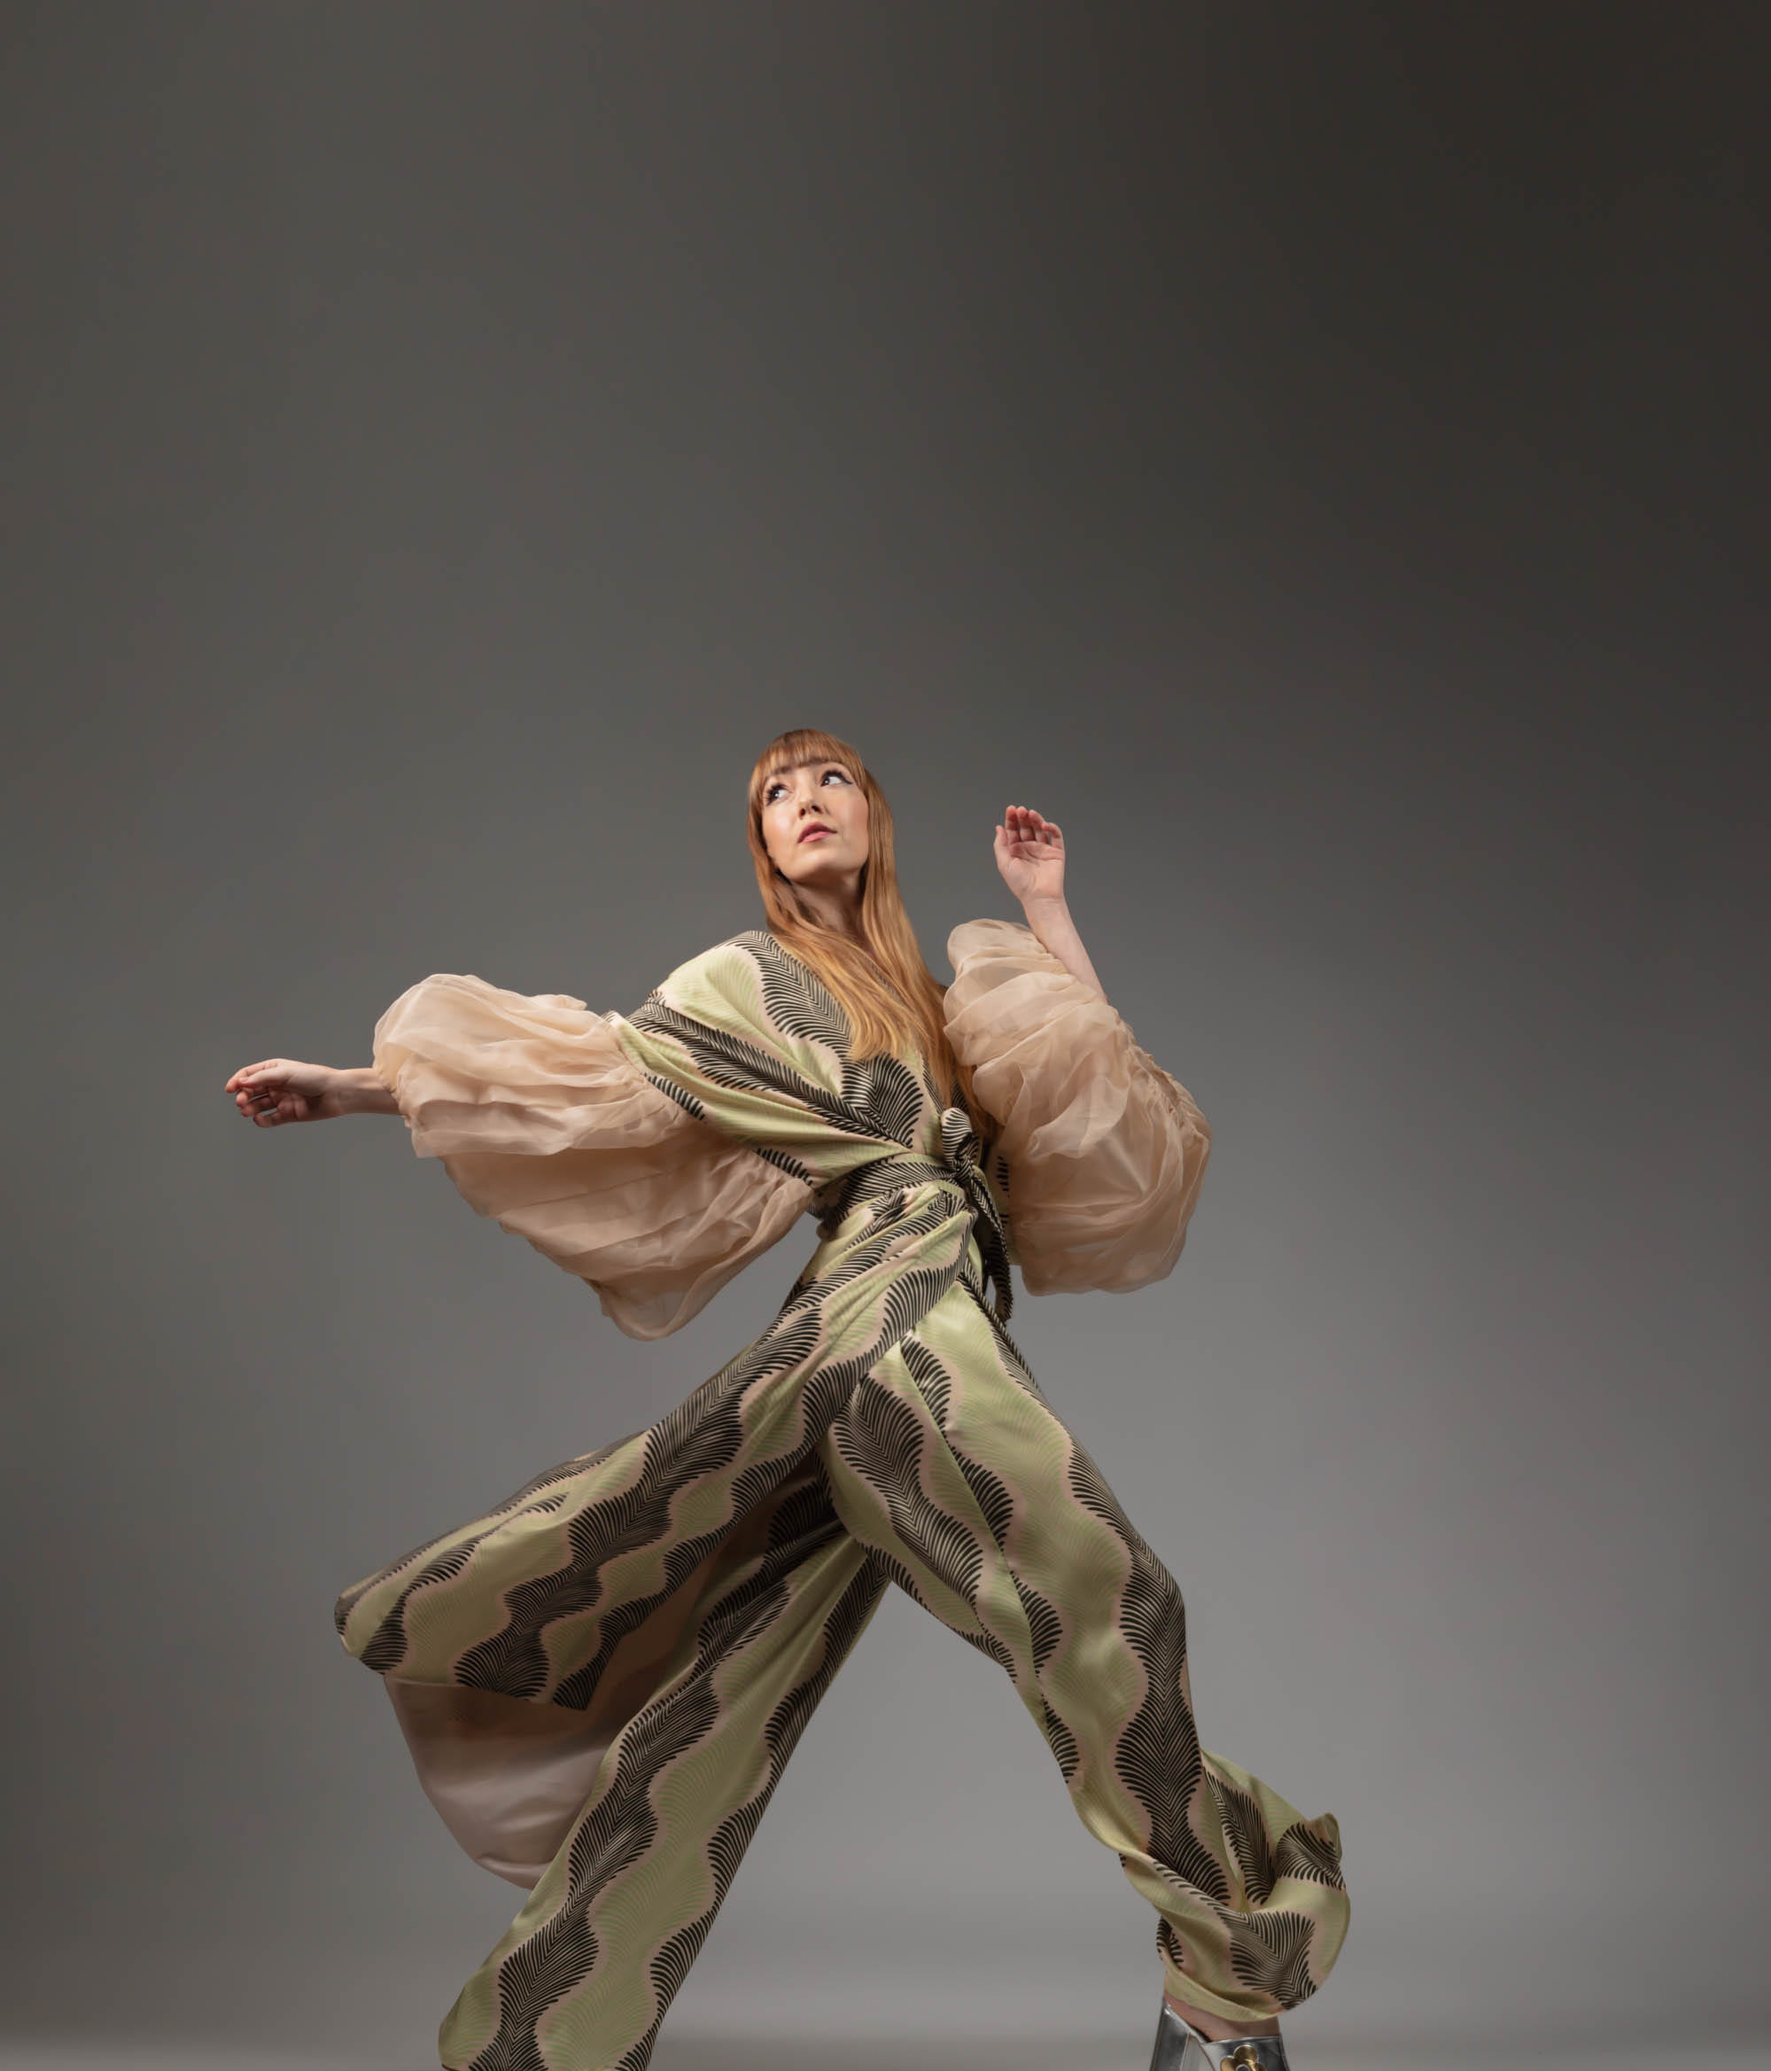
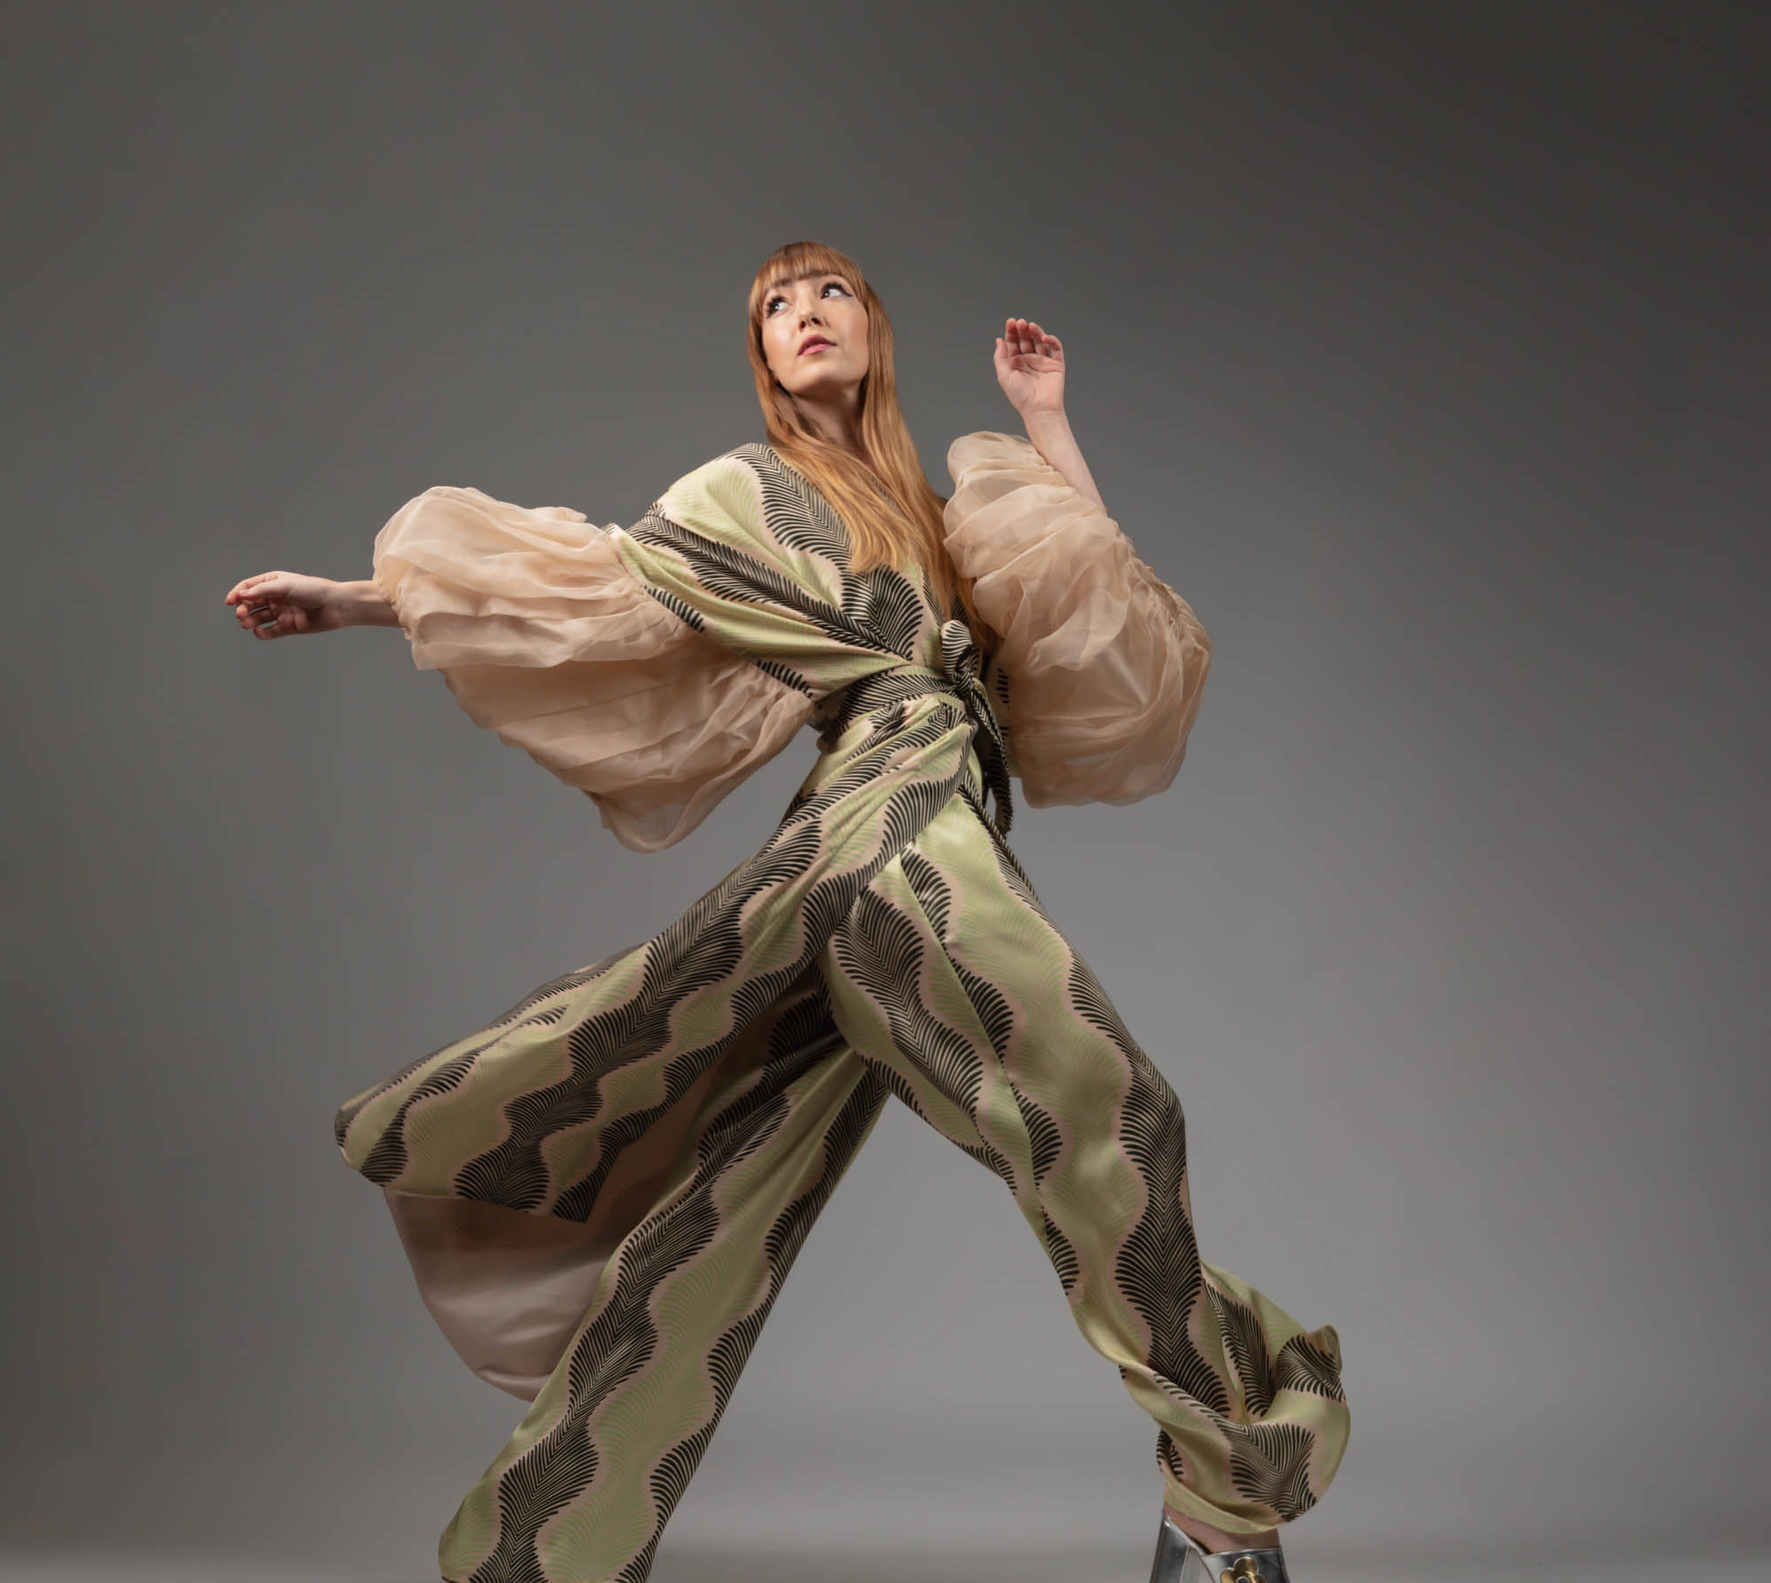
vsl pages: real client film in "What Video Can Do", tighter crop
The section that argues for video was illustrated with a still. Both
industry pages now play the studio's own work there instead, matched
to the page:

  vsl-retail-industry  Cacao & Cardamom: Delicious Impressions
  vsl-li-industry      RadioMedix 2025: Where It All Began

Kinetik's Delaware Basin film was the first pick for the industrial
page and was dropped: it is unlisted, so Vimeo serves no poster to
visitors and the frame it falls back to is the "this is a work of
fiction" legal card - a poor first impression for a section selling
corporate video. Both chosen films are public and have real posters.
The section already supported video from the fashion landing page
work, so this is data only.

The commercial photography still is re-cut from the Drive original in
a single pass rather than re-encoding the earlier crop: 22% off the
top, where there was only empty grey, and 6.5% off the bottom, which
is where ASHKAN IMAGE Photography was burnt in. 0.80 -> 1.12, and the
model now fills the frame instead of sitting in it.

Changed region(s): [[0.1241, 0.1539, 0.8684, 1.0]]

diff --git a/app/src/data/seo-pages.ts b/app/src/data/seo-pages.ts
@@ -699,8 +699,9 @@ export const seoPages: SeoPageData[] = [
           "Customer support content",
           "And much more",
         ],
-        image: "/images/seo/vsl/retail-golf-008.jpg",
-        imageAlt: "Retail industry video production",
+        video:
+          "https://player.vimeo.com/video/1125611606?title=0&byline=0&portrait=0&dnt=1",
+        videoTitle: "Cacao & Cardamom: Delicious Impressions",
       },
     ],
     ctaHeading: "BOOST YOUR RETAIL BRAND",
@@ -735,8 +736,9 @@ export const seoPages: SeoPageData[] = [
           "Earnings reports presentations",
           "And much more",
         ],
-        image: "/images/seo/approved/industrial-aerospace-team.jpg",
-        imageAlt: "Industrial and corporate video production in Houston, TX",
+        video:
+          "https://player.vimeo.com/video/1100405072?title=0&byline=0&portrait=0&dnt=1",
+        videoTitle: "RadioMedix 2025: Where It All Began",
       },
     ],
     ctaHeading: "ELEVATE YOUR CORPORATE VIDEO",
